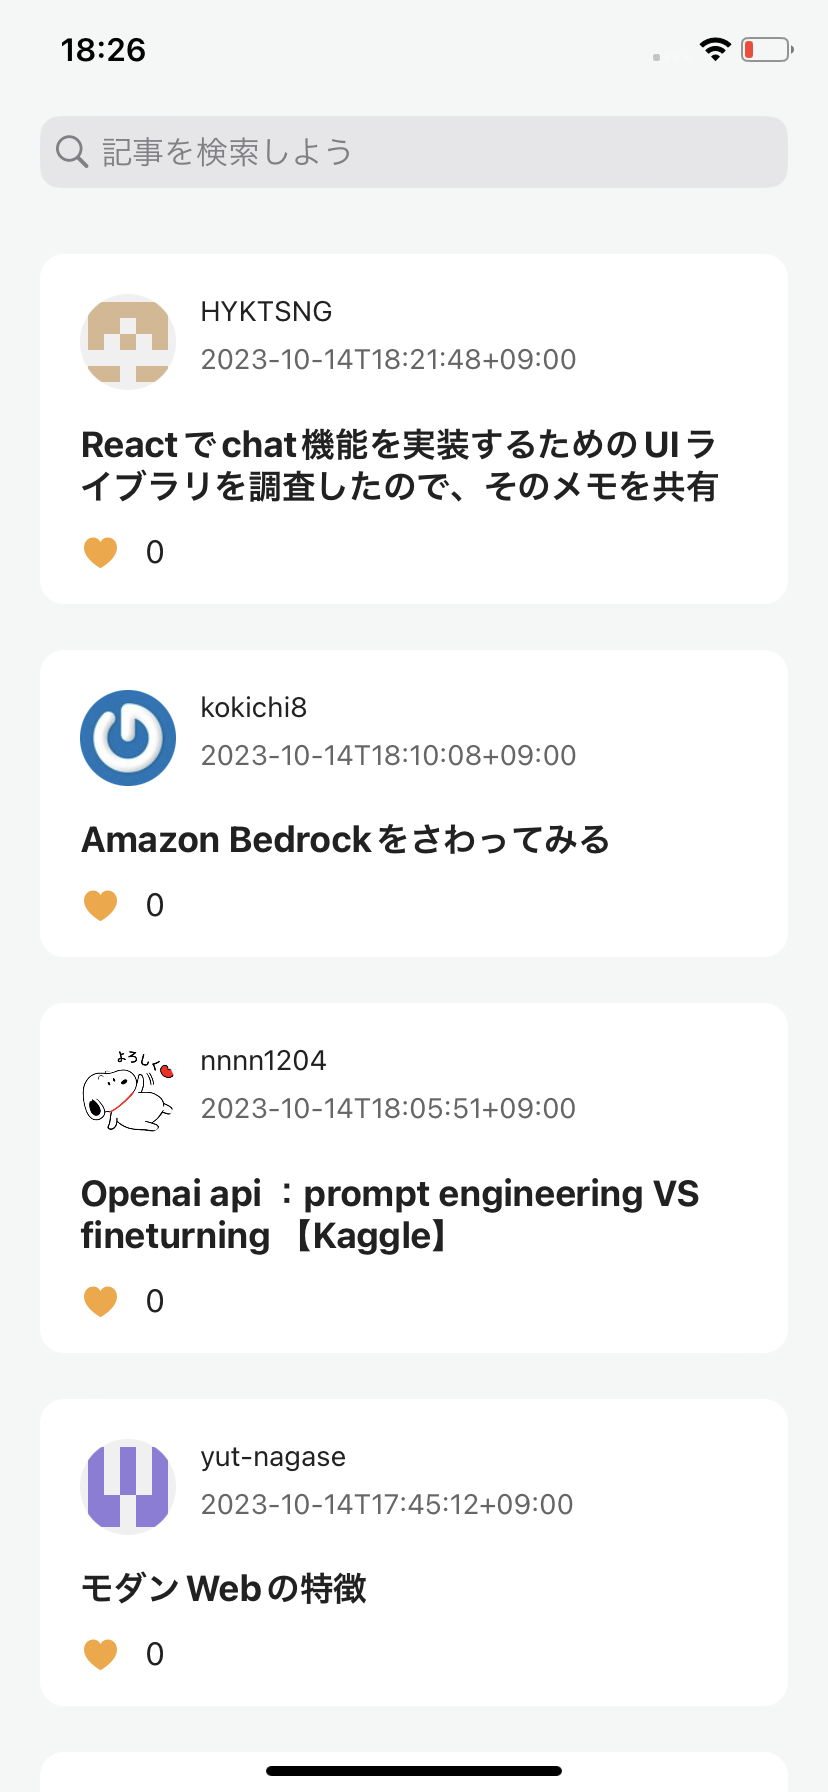
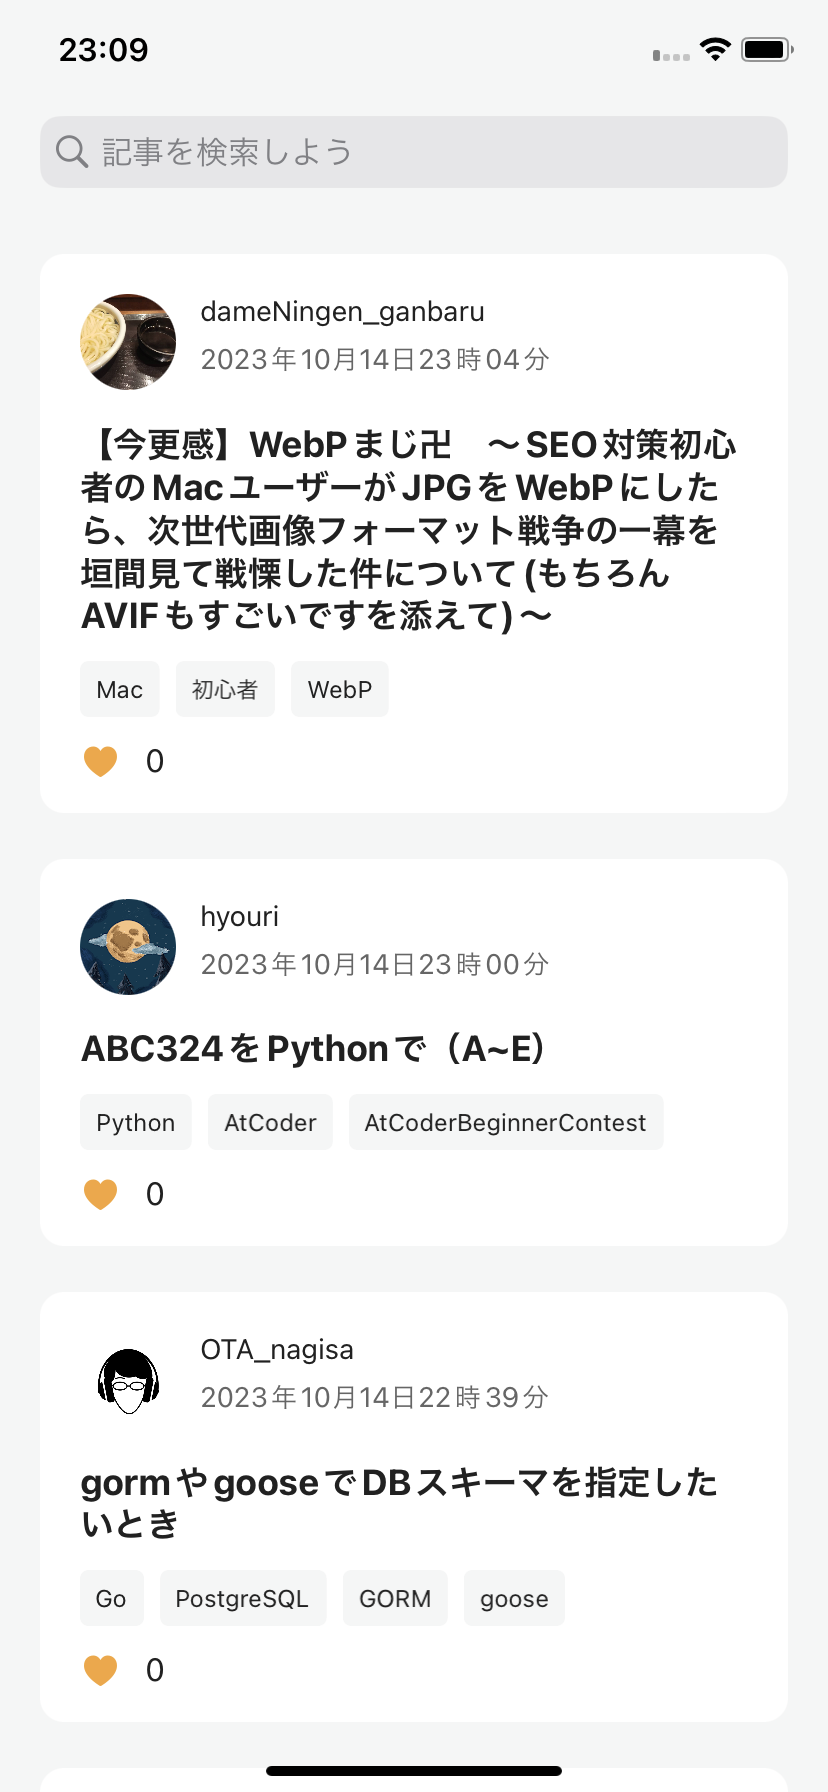
feat: update README

diff --git a/README.md b/README.md
@@ -18,3 +18,4 @@ MVVM ✖ Clean Architecture
 - Swift Concurrency
 - Nuke
 - UIColorHexSwift
+- TagListView
